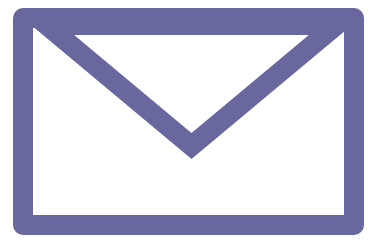
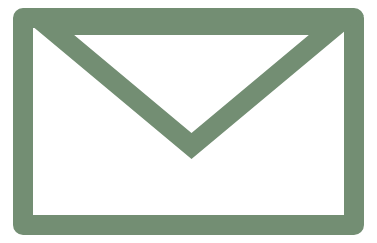
intern

diff --git a/CSS/main.css b/CSS/main.css
@@ -4,7 +4,7 @@
 body{
     background: var(--base);
     font-family: 'Poppins', sans-serif;
-    color:var(--highlightOne);
+    color:var(--highlightTwo);
     text-align: center;
 }
 
@@ -84,13 +84,15 @@ li{
     text-align: left;
     font-size: 18px;
   }
-  .card-button{
-      margin: 0;
-      position: absolute;
-      top: 75%;
-      left: 50%;
-      -ms-transform: translate(-50%, -50%);
-      transform: translate(-50%, -50%);
+  .card-button{  
+    margin: 0;
+    position: absolute;
+    top: 90%;
+    left: 50%;
+    -ms-transform: translate(-50%, -50%);
+    transform: translate(-50%, -50%);
+    padding-top: 20%;
+    padding-bottom: 20%;
   }
   
   /*add this it*/
@@ -135,7 +137,7 @@ li{
     bottom: 0;
     background-color: rgba(0,0,0,0.7); /* Black background with opacity */
     z-index: 2; /* Specify a stack order in case you're using a different order for other elements */
-    cursor: pointer; /* Add a pointer on hover */]
+    cursor: pointer; /* Add a pointer on hover */
   }
   
 HEADER
@@ -157,38 +159,6 @@ HEADER
 
 #header{
     height: 30em;
-}
-
-CONTACT
-.contact{
-    color:white;
-    border-color: var(--highlightTwo);
-    border-radius: 30px;
-    justify-items: center;
-    align-content: center;
-    background-color: var(--highlightTwo);
-}
-label{
-    text-align: left !important;
-}
-.container{
-    align-content: center !important;
-    justify-content: center !important;
-}
-form{
-    align-items: center !important;
-    justify-content: center !important;
-}
-.form-group{
-    width: 500px;
-    align-items: center !important;
-    justify-content: center !important;
-
-}
-
-.text-uppercase{
-    text-align: left;
-    
 }
 
 NAVBAR
@@ -256,17 +226,17 @@ button {
     width: 210px;
     opacity: 1;
     background-color: white;
-    border: 2px solid var(--highlightOne);
+    border: 2px solid var(--highlightTwo);
   }
   button span {
-    color: var(--highlightOne);
+    color: var(--highlightTwo);
     font-size: 12px;
     font-weight: 500;
     letter-spacing: 0.7px;
   }
   button:hover {
     animation: rotate 0.7s ease-in-out both;
-    background-color: var(--highlightOne);
+    background-color: var(--highlightTwo);
   }
   button:hover span {
     animation: storm 0.7s ease-in-out both;
@@ -398,5 +368,5 @@ SOCIAL ICONS
     --navy: #05092E;
     --base: #1D1E18;
     --highlightOne: #6B8F71;
-    --highlightTwo: #6A66A3;
+    --highlightTwo: #C6B75B;
 }

diff --git a/index.html b/index.html
@@ -33,13 +33,13 @@
     }
     </style>
 
-  <div id="overlay">
+  <!--<div id="overlay">
       <div id="text">Hello! Keve is rebuilding her website with
         some groovy new features so it may look a bit messy right now! It will soon be in 
         tip top shape!
       </div>
       <button class="overlayButt" onclick="off()">I understand, lemme see it!</button>
-    </div>
+    </div>-->
 
     <!--NAVBAR-->
     <nav class="navbar navbar-expand-lg navbar-custom">
@@ -128,7 +128,7 @@
         </div>
       </a>
         </div>
-        <img style="padding: 15%; background-color: var(--highlightTwo);" src="./assets/static1.squarespace.png"/>
+        <img style="padding: 15%; background-color: var(--highlightOne);" src="./assets/static1.squarespace.png"/>
       </div>
     </div>
   </div>
@@ -136,7 +136,7 @@
   <div class="card-container">
     <div class="float-layout">
       <div class="card-image">
-        <img style="padding: 15%; background-color: var(--highlightTwo);" src="./assets/kailogo.png">
+        <img style="padding: 15%; background-color: var(--highlightOne);" src="./assets/kailogo.png">
         <div class="card">
           <div class="card-title">Kai Cohen Photography</div>
           <div class="card-desc">
@@ -177,7 +177,7 @@
         </div>
       </a>
         </div>
-        <img style="padding: 15%; background-color: var(--highlightTwo);" src="./assets/wildfire.png"/>
+        <img style="padding: 15%; background-color: var(--highlightOne);" src="./assets/wildfire.png"/>
       </div>
     </div>
   </div>
@@ -213,8 +213,8 @@
       minWidth: 200.00,
       scale: 1.00,
       scaleMobile: 1.00,
-      color2: 0x6B8F71,
-      color: 0x6D9C8F,
+      color2: 0xC6B75B,
+      color: 0x6B8F71,
       backgroundColor: 0x1D1E18
     })
     </script>
